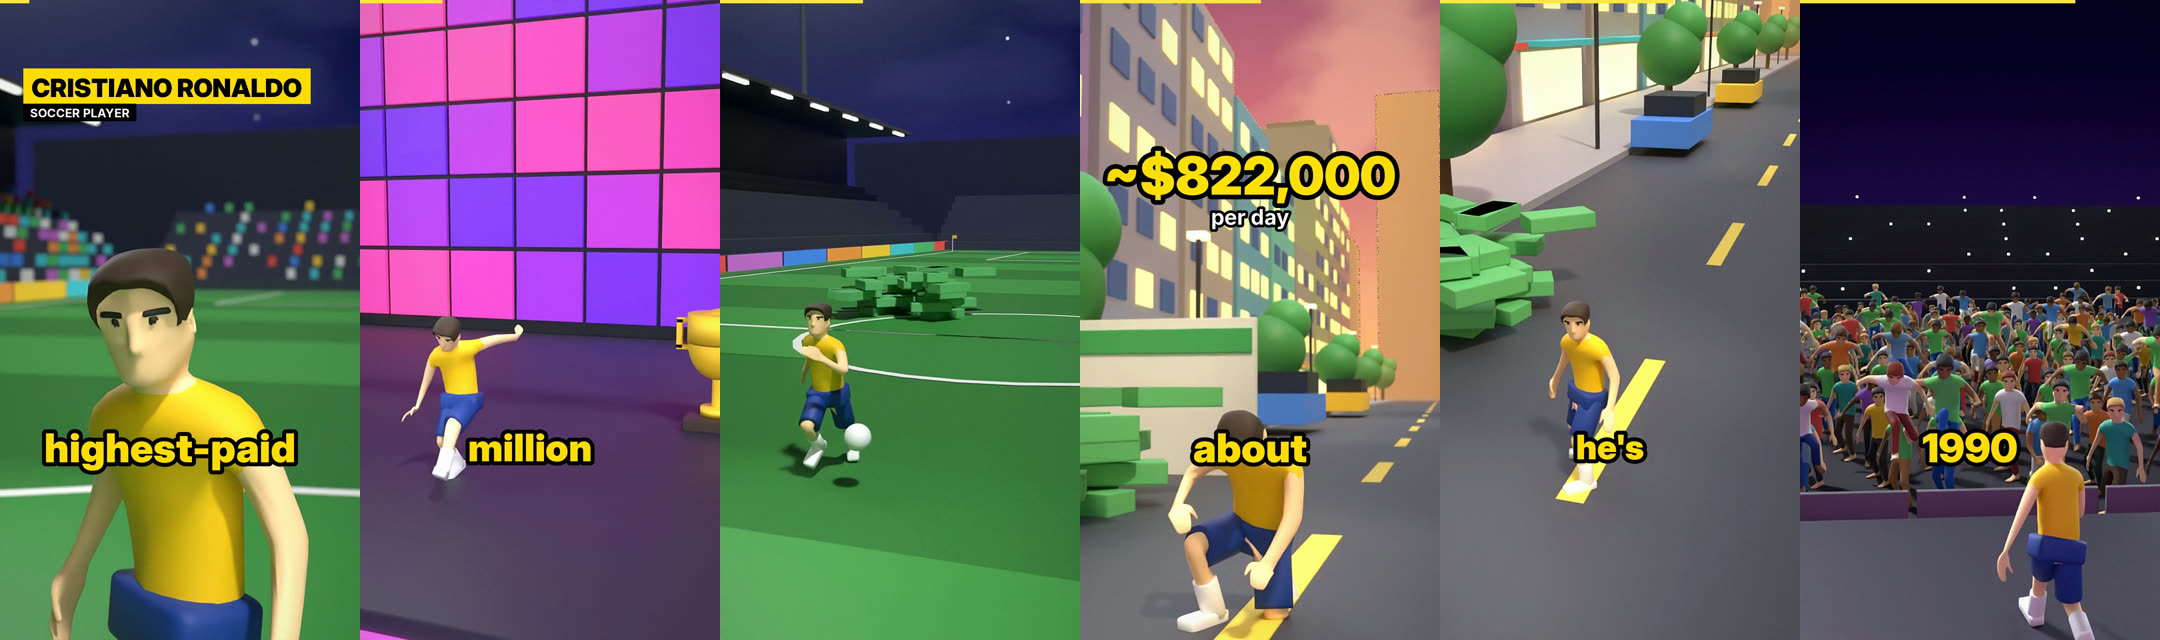
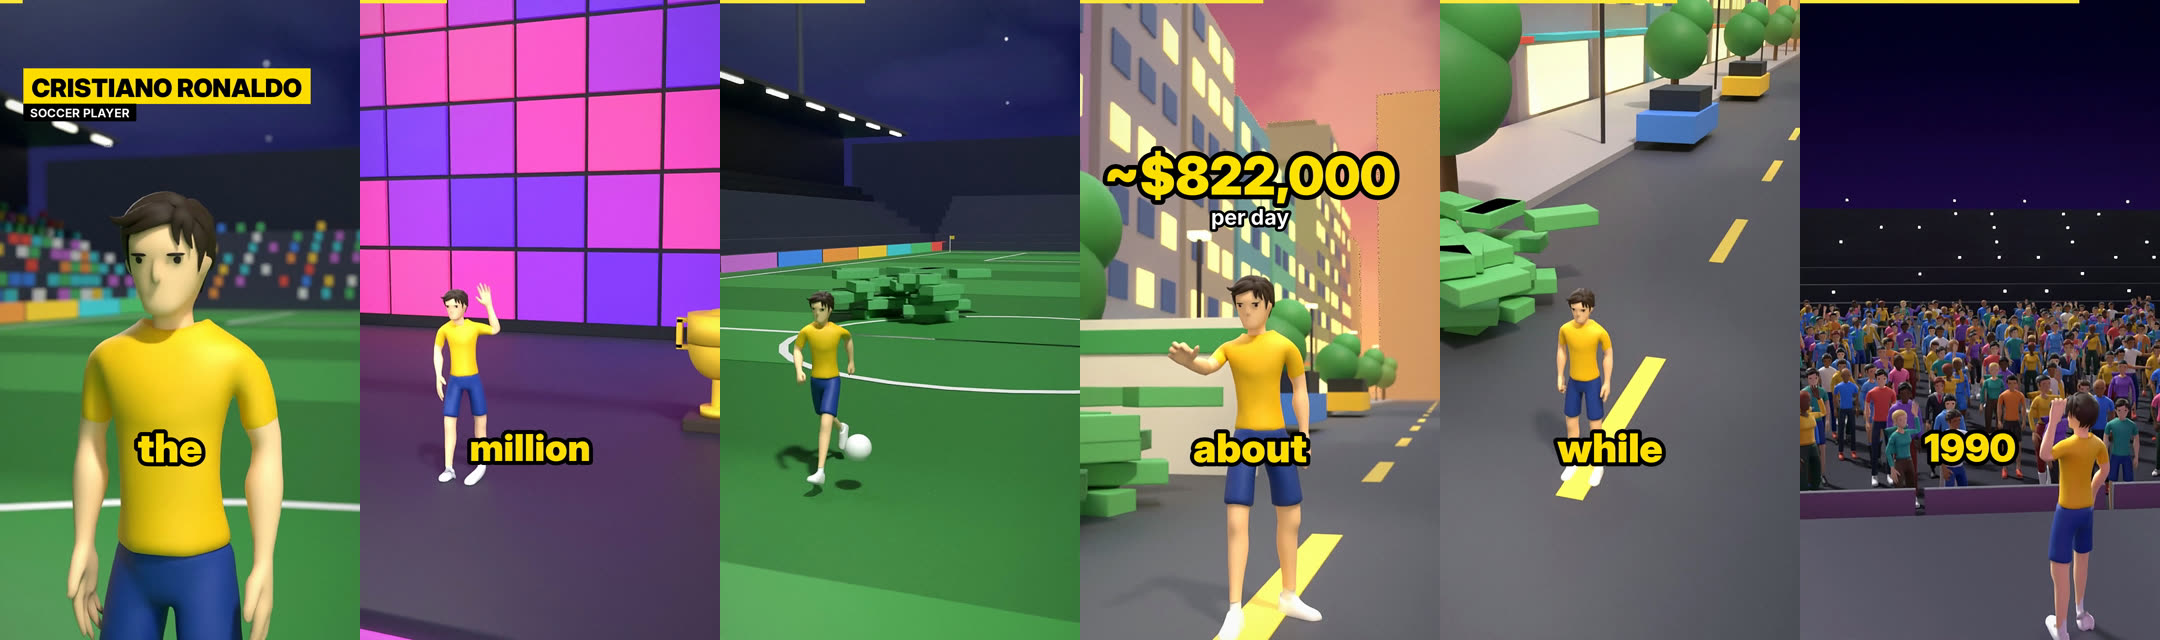
People pack: tested previews and summary

diff --git a/MORNING.md b/MORNING.md
@@ -1,9 +1,8 @@
-# Morning summary, Nov 10
+# Update, Nov 11
 
-Overnight I rebuilt the animated (low-poly) Shorts, because you said they had no background, the Ronaldo edit was bad and famous people should be recognisable. I first checked what the popular money Shorts use: it is hand-made smooth 3D made with paid tools, which cannot be automated for free, so I kept our free characters and matched what is free (smooth figures, lighting, depth of field, camera work). Every set now has a real sky, far scenery and full dressing (stands, floodlights, shop fronts, trees); famous people are recognisable by hair, beard and plain-colour clothes with no logos or real jersey designs (done for 9 scripts); the empty top-down shots are gone, every cut has a punch-in and the camera frames the hero against the set; the cover bug where the name banner hid the title is fixed; and in 7 of the 10 top-scoring ready scripts the big sourced number is on screen from the first second, since most viewers leave at 4 to 5 seconds. It was tested on GitHub with a full dry run of the Ronaldo Short with the real voice and Blender (all 20 Blender machines passed; picture: `previews/040-famous-ronaldo-new-look.jpg`), then merged to main, and animated Shorts may now be up to 1 in every 3 posts instead of 1 in 6. What did not work: the first full test fell back to the plain look because one Blender machine crashed (I added a retry and the second test was clean, but the cause is unknown), the faces are still simple cartoon faces, and in very tight close-ups the shorts' waistband looks like a blue block.
+You told me to download the better free character models myself, so I did. The animated Shorts now use real modelled people instead of one recoloured mannequin: 8 men and 6 women from Quaternius's free "Ultimate Modular Men/Women" packs (public domain, about 20 MB, credits in `assets/characters/CREDITS.md`), each with a face, hair and proper clothes, and the heads, bodies, legs and feet can be swapped and recoloured. Famous people are built from those parts (Ronaldo's spiky hair, Jordan bald with a goatee, LeBron with a buzz cut, beard and headband, Messi's beard, Taylor Swift's blonde bob and dress), still with plain colours and no logos, and crowds are now 16 different people. I ruled out two other packs first: the smooth one is underwear-only in its free version, and the cute mini one is blockier than what we had. It was tested on GitHub: Blender look checks of seven Shorts, all 20 animated scripts rendered without errors, and a full dry run of the Ronaldo Short with the real voice (all 20 Blender machines passed, pictures in `previews/`), then merged to main. What did not work at first: the first Blender test showed frozen people with the headband behind the head, because Blender names the animations differently; that is fixed. Still weak: faces are simple, subdividing rounds off spiky hair, and beards on bald heads are small blocks.
 
 ## Needs you
-- Watch the first new animated Short when it posts and tell me if the look is right.
-- Better free character models exist (CC0 packs) but need a download; say yes if you want me to try them.
-- I left the test branches (`stress-test`, `nightly-test`) and the temporary look-check workflow in place; nothing to do unless you want them removed.
+- Watch the next animated Short that posts and tell me if the people look right.
 - Already-posted Shorts were not changed.
+- Test branches (`stress-test`, `nightly-test`) are still in place; nothing to do.
